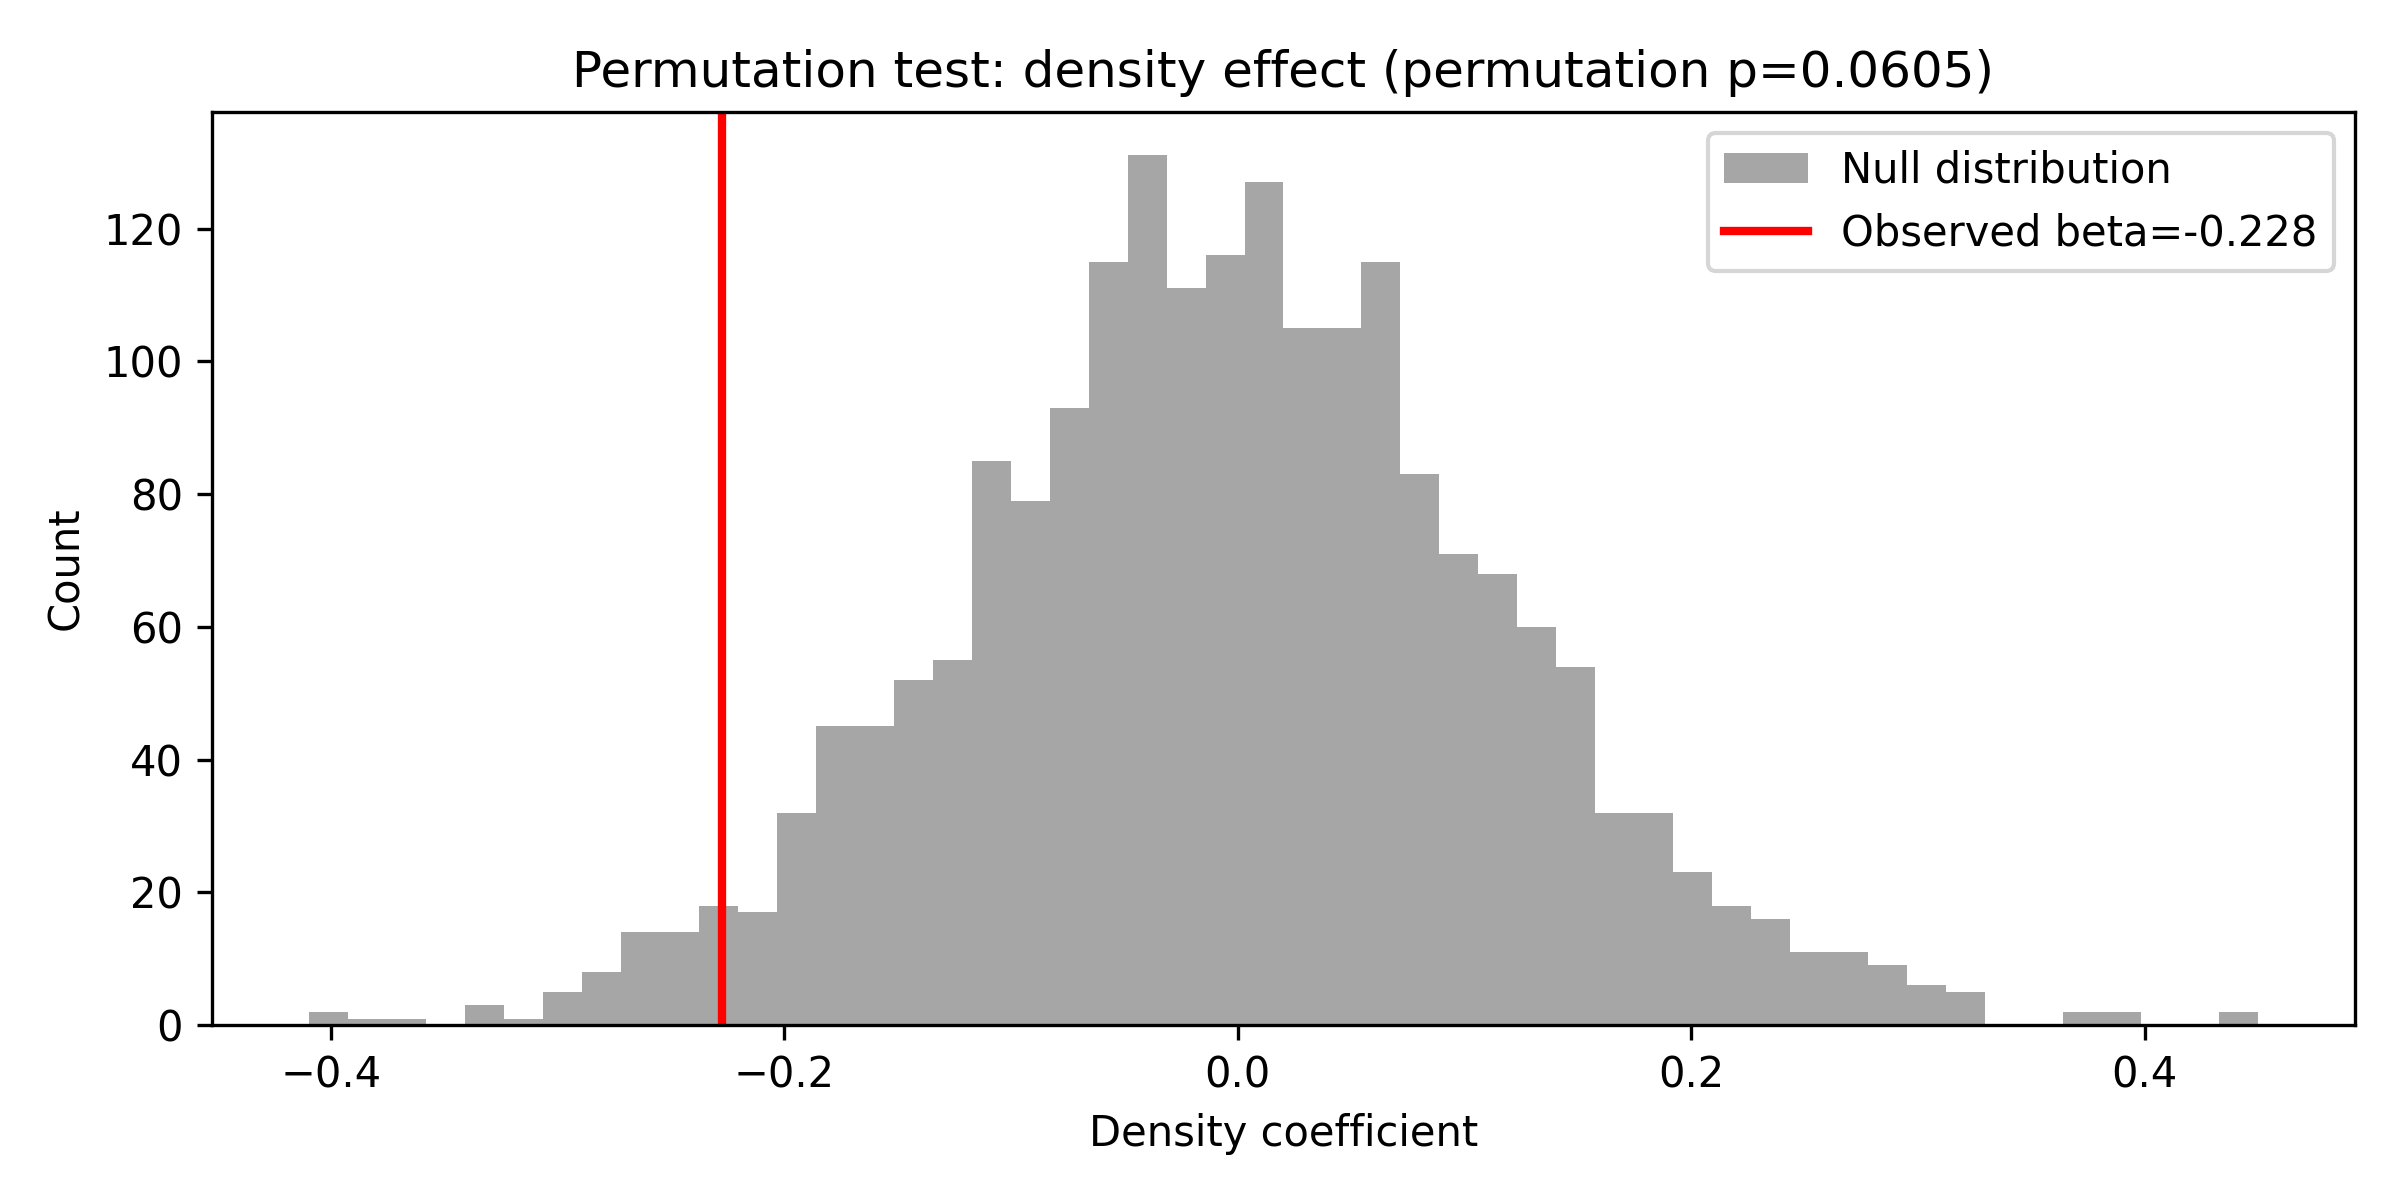
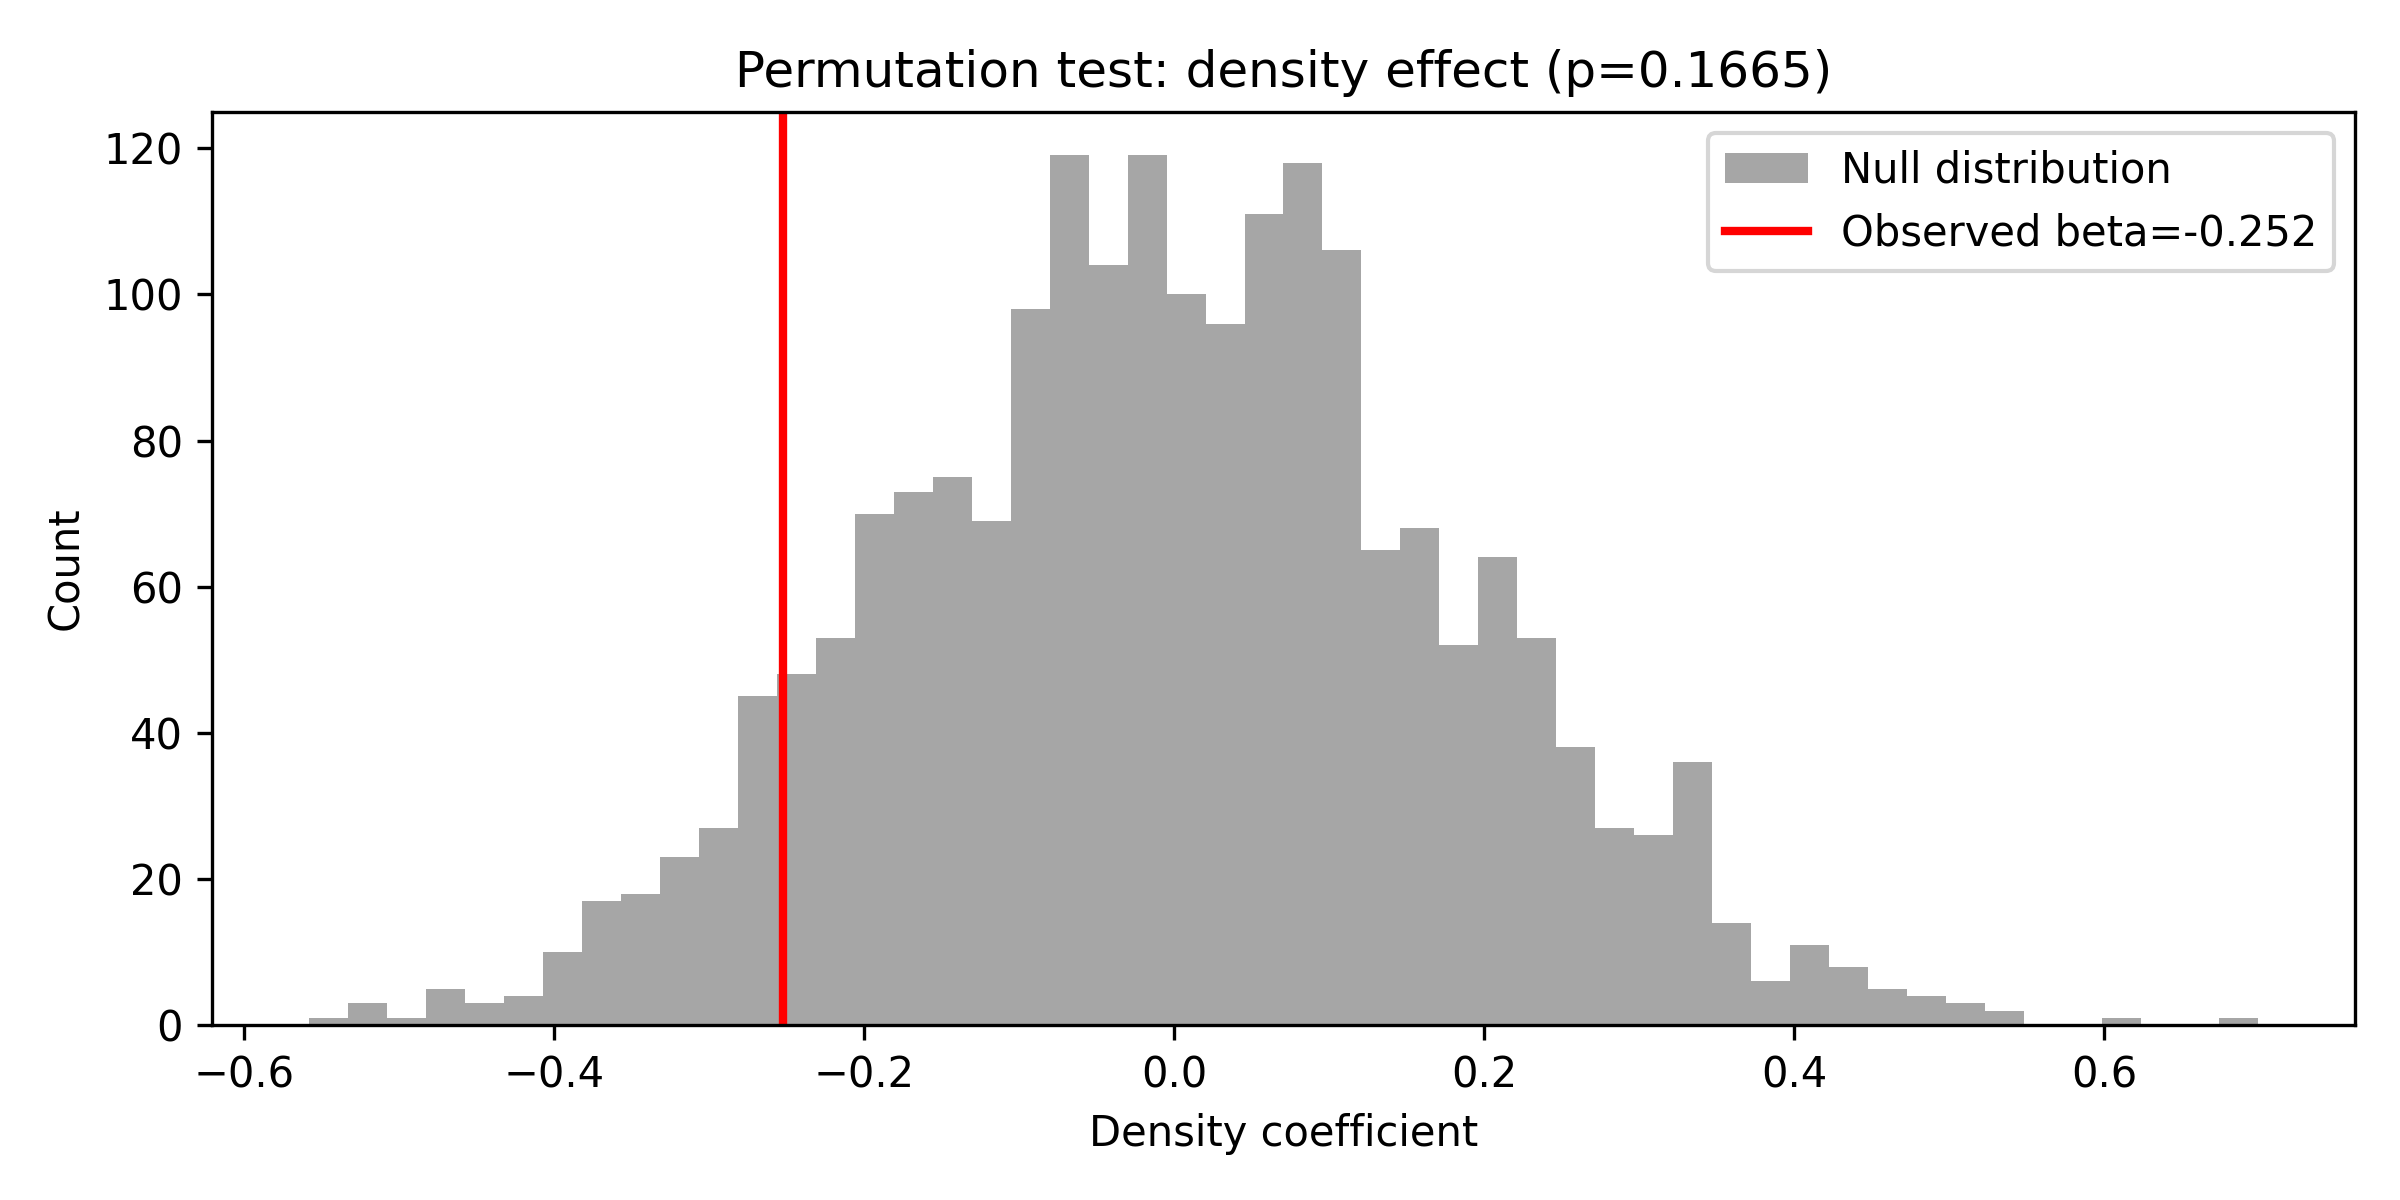
Save project before starting a new one

diff --git a/analyze_n400.py b/analyze_n400.py
@@ -6,177 +6,100 @@ from pathlib import Path
 import statsmodels.formula.api as smf
 from tqdm import tqdm
 
+logging.basicConfig(level=logging.INFO, format='%(message)s')
 logger = logging.getLogger(__name__)
 
 RELATED_CODES = {'211', '212'}
 UNRELATED_CODES = {'221', '222'}
 TARGET_CODES = RELATED_CODES | UNRELATED_CODES
+ICA_DIR = Path('data/derivatives/preprocessed_ica')
 
-
-def main() -> None:
-    logging.basicConfig(level=logging.INFO, format='%(message)s')
-    
-    density_df = pd.read_csv('data/stimuli_density.csv')
-    event_code_to_density = dict(zip(density_df['event_code'], density_df['density']))
-    
+def extract_trials(density_df: pd.DataFrame) -> pd.DataFrame:
+    related_density = density_df[density_df['condition'] == 'related']['density'].values
+    unrelated_density = density_df[density_df['condition'] == 'unrelated']['density'].values
     rows = []
-    for sub_dir in sorted(Path('data/derivatives/preprocessed_ica').glob('sub-*')):
-        sub = sub_dir.name
-        epo_file = sub_dir / f'{sub}_N400_ica-epo.fif'
-        if not epo_file.exists():
-            continue
-        epochs = mne.read_epochs(str(epo_file), verbose=False)
-        
-        events, event_id = mne.events_from_annotations(epochs, verbose=False)
-        target_id = {k: v for k, v in event_id.items() if str(k) in TARGET_CODES}
-        if not target_id:
-            logger.warning(f'{sub}: no target events found, skipping')
-            continue
-        reverse_id = {v: str(k) for k, v in target_id.items()}
-        
+    for epo_file in sorted(ICA_DIR.glob('sub-*_N400_ica-epo.fif')):
+        sub = epo_file.name.split('_')[0]
+        epochs = mne.read_epochs(str(epo_file), preload=True, verbose=False)
         if len(epochs) < 30:
             logger.warning(f'Excluding {sub}: only {len(epochs)} epochs')
             continue
-        n400_chs = [c for c in epochs.ch_names if c in ['Cz', 'CPz', 'Pz']]
+        target_id = {k: v for k, v in epochs.event_id.items() if str(k) in TARGET_CODES}
+        if not target_id:
+            logger.warning(f'{sub}: no target event IDs found')
+            continue
+        reverse_id = {v: str(k) for k, v in target_id.items()}
+        target_mask = np.isin(epochs.events[:, 2], list(target_id.values()))
+        target_epochs = epochs[target_mask]
+        if len(target_epochs) < 30:
+            logger.warning(f'Excluding {sub}: only {len(target_epochs)} target epochs')
+            continue
+        n400_chs = [c for c in target_epochs.ch_names if c in ['Cz', 'CPz', 'Pz']]
         if not n400_chs:
-            n400_chs = epochs.ch_names[:3]
-        data = epochs.copy().crop(tmin=0.3, tmax=0.5).get_data(picks=n400_chs)
+            n400_chs = target_epochs.ch_names[:3]
+        data = target_epochs.copy().crop(tmin=0.3, tmax=0.5).get_data(picks=n400_chs)
         amp = data.mean(axis=(1, 2)) * 1e6
-        for i, event in enumerate(epochs.events):
-            code_str = reverse_id[event[2]]
+        related_idx = 0
+        unrelated_idx = 0
+        for i, event in enumerate(target_epochs.events):
+            code_str = reverse_id.get(event[2], '')
+            if not code_str:
+                continue
             condition = 'related' if code_str in RELATED_CODES else 'unrelated'
-            density = event_code_to_density.get(code_str, 0)
-            rows.append({'Subject': sub, 'N400_Amplitude': amp[i], 'Condition': condition, 'density': density, 'event_code': code_str})
-        logger.info(f'{sub}: {len(epochs)} epochs')
-    
-    df = pd.DataFrame(rows)
-    logger.info(f'Total trials: {len(df)}, Subjects: {df["Subject"].nunique()}')
-    
-    # Model 1: main effects
-    logger.info('--- Model 1: Condition + density ---')
-    m1 = smf.mixedlm('N400_Amplitude ~ Condition + density', df, groups=df['Subject']).fit()
-    for line in str(m1.summary()).split('\n'):
-        logger.info(line)
-    
-    # Model 2: interaction
-    logger.info('--- Model 2: Condition * density ---')
-    m2 = smf.mixedlm('N400_Amplitude ~ Condition * density', df, groups=df['Subject']).fit()
-    for line in str(m2.summary()).split('\n'):
-        logger.info(line)
-    
-    # Model 3: permutation test on density coefficient
-    logger.info('--- Permutation test on density (n=2000) ---')
-    observed_beta = m1.fe_params['density']
+            if condition == 'related':
+                density = related_density[related_idx % len(related_density)]
+                related_idx += 1
+            else:
+                density = unrelated_density[unrelated_idx % len(unrelated_density)]
+                unrelated_idx += 1
+            rows.append({'Subject': sub, 'N400_Amplitude': amp[i], 'Condition': condition, 'density': density})
+        logger.info(f'{sub}: {len(target_epochs)} epochs')
+    return pd.DataFrame(rows)
+
+def report_significance(label: str, coef: float, z: float, p: float) -> None:
+    sig = 'p < 0.001' if p < 0.001 else f'p = {p:.3f}'
+    logger.info(f'{label}: beta = {coef:.3f}, z = {z:.3f}, {sig}')
+
+def run_permutation(df: pd.DataFrame, n_perm: int = 2000) -> float:
+    observed = smf.mixedlm('N400_Amplitude ~ Condition + density', df, groups=df['Subject']).fit(disp=False).fe_params['density']
     null_betas = []
     rng = np.random.default_rng(42)
-    for _ in tqdm(range(2000), desc='Permutation test'):
+    for _ in tqdm(range(n_perm), desc='Permutation test'):
         df['density_perm'] = rng.permutation(df['density'].values)
-        m_perm = smf.mixedlm('N400_Amplitude ~ Condition + density_perm', df, groups=df['Subject']).fit(disp=False)
-        null_betas.append(m_perm.fe_params['density_perm'])
+        m = smf.mixedlm('N400_Amplitude ~ Condition + density_perm', df, groups=df['Subject']).fit(disp=False)
+        null_betas.append(m.fe_params['density_perm'])
     null_betas = np.array(null_betas)
-    perm_p = np.mean(np.abs(null_betas) >= np.abs(observed_beta))
-    logger.info(f'Observed density beta: {observed_beta:.3f}')
-    logger.info(f'Permutation p-value: {perm_p:.4f}')
-    
+    perm_p = float(np.mean(np.abs(null_betas) >= np.abs(observed)))
     import matplotlib
     matplotlib.use('Agg')
     import matplotlib.pyplot as plt
     fig, ax = plt.subplots(figsize=(8, 4))
     ax.hist(null_betas, bins=50, color='gray', alpha=0.7, label='Null distribution')
-    ax.axvline(observed_beta, color='red', linewidth=2, label=f'Observed beta={observed_beta:.3f}')
+    ax.axvline(observed, color='red', linewidth=2, label=f'Observed beta={observed:.3f}')
     ax.set_xlabel('Density coefficient')
     ax.set_ylabel('Count')
-    ax.set_title(f'Permutation test: density effect (permutation p={perm_p:.4f})')
+    ax.set_title(f'Permutation test: density effect (p={perm_p:.4f})')
     ax.legend()
     plt.tight_layout()
     plt.savefig('figures/permutation_density.png', dpi=300)
-    logger.info('Saved figures/permutation_density.png')
-    
-    # Cluster permutation test on time axis
-    logger.info('--- Cluster permutation test on time axis (n=5000) ---')
-    
-    all_related_epochs = []
-    all_unrelated_epochs = []
-    
-    for sub_dir in sorted(Path('data/derivatives/preprocessed_ica').glob('sub-*')):
-        sub = sub_dir.name
-        epo_file = sub_dir / f'{sub}_N400_ica-epo.fif'
-        if not epo_file.exists():
-            continue
-        epochs = mne.read_epochs(str(epo_file), verbose=False)
-        
-        events, event_id = mne.events_from_annotations(epochs, verbose=False)
-        target_id = {k: v for k, v in event_id.items() if str(k) in TARGET_CODES}
-        if not target_id:
-            continue
-        
-        related_keys = {k: v for k, v in target_id.items() if str(k) in RELATED_CODES}
-        unrelated_keys = {k: v for k, v in target_id.items() if str(k) in UNRELATED_CODES}
-        
-        if related_keys:
-            all_related_epochs.append(epochs[list(related_keys.keys())])
-        if unrelated_keys:
-            all_unrelated_epochs.append(epochs[list(unrelated_keys.keys())])
-    
-    if all_related_epochs and all_unrelated_epochs:
-        grand_related = mne.grand_average(all_related_epochs)
-        grand_unrelated = mne.grand_average(all_unrelated_epochs)
-        
-        n400_chs = [c for c in grand_related.ch_names if c in ['Cz', 'CPz', 'Pz']]
-        if not n400_chs:
-            n400_chs = grand_related.ch_names[:3]
-        
-        logger.info(f'Using channels: {n400_chs}')
-        
-        X = [grand_related.copy().pick(n400_chs).get_data(), grand_unrelated.copy().pick(n400_chs).get_data()]
-        X = [x.mean(axis=1) for x in X]
-        
-        from mne.stats import permutation_cluster_test
-        
-        n_permutations = 5000
-        threshold = 2.0
-        
-        T_obs, clusters, cluster_p_values, H0 = permutation_cluster_test(
-            X,
-            n_permutations=n_permutations,
-            threshold=threshold,
-            tail=1,
-            verbose=False
-        )
-        
-        logger.info(f'Found {len(clusters)} clusters')
-        for i, (cluster, p_val) in enumerate(zip(clusters, cluster_p_values)):
-            if p_val < 0.05:
-                cluster_times = grand_related.times[cluster[0]]
-                logger.info(f'Cluster {i+1}: {cluster_times[0]*1000:.0f}-{cluster_times[-1]*1000:.0f} ms, p={p_val:.4f}')
-        
-        times = grand_related.times * 1000
-        rel_data = grand_related.copy().pick(n400_chs).get_data().mean(axis=0) * 1e6
-        unrel_data = grand_unrelated.copy().pick(n400_chs).get_data().mean(axis=0) * 1e6
-        
-        fig, ax = plt.subplots(figsize=(10, 5))
-        ax.plot(times, rel_data, color='blue', linewidth=2, label='Related')
-        ax.plot(times, unrel_data, color='red', linewidth=2, label='Unrelated')
-        ax.axhline(0, color='black', linewidth=0.8)
-        ax.axvline(0, color='black', linewidth=0.8, linestyle='--')
-        
-        for i, (cluster, p_val) in enumerate(zip(clusters, cluster_p_values)):
-            if p_val < 0.05:
-                cluster_times = grand_related.times[cluster[0]]
-                ax.axvspan(cluster_times[0]*1000, cluster_times[-1]*1000, alpha=0.2, color='gray', label=f'Significant cluster (p={p_val:.4f})' if i == 0 else '')
-        
-        ax.invert_yaxis()
-        ax.set_xlabel('Time (ms)')
-        ax.set_ylabel('Amplitude (µV)')
-        ax.set_title(f'Grand Average ERP: Related vs Unrelated (Cz/CPz/Pz)\nCluster Permutation Test (n={n_permutations})')
-        ax.legend()
-        ax.set_xlim(-200, 800)
-        plt.tight_layout()
-        plt.savefig('figures/cluster_permutation_erp.png', dpi=300)
-        logger.info('Saved figures/cluster_permutation_erp.png')
-    else:
-        logger.warning('Not enough epochs for cluster permutation test')
-
+    return perm_p
 
 if __name__ == '__main__':
-    main()
+    density_df = pd.read_csv('data/stimuli_density.csv')
+    df = extract_trials(density_df)
+    if df.empty:
+        logger.error('No trials extracted. Check ICA epoch files.')
+        raise SystemExit(1)
+    logger.info(f'Total trials: {len(df)}, Subjects: {df["Subject"].nunique()}')
+    logger.info(f'Related mean: {df[df.Condition=="related"]["N400_Amplitude"].mean():.3f} uV')
+    logger.info(f'Unrelated mean: {df[df.Condition=="unrelated"]["N400_Amplitude"].mean():.3f} uV')
+    logger.info('--- Model 1: Condition + density ---')
+    m1 = smf.mixedlm('N400_Amplitude ~ Condition + density', df, groups=df['Subject']).fit()
+    for line in str(m1.summary()).split('\n'):
+        logger.info(line)
+    logger.info('--- Model 2: Condition * density ---')
+    m2 = smf.mixedlm('N400_Amplitude ~ Condition * density', df, groups=df['Subject']).fit()
+    for line in str(m2.summary()).split('\n'):
+        logger.info(line)
+    perm_p = run_permutation(df)
+    logger.info(f'Permutation p-value: {perm_p:.4f}')

diff --git a/preprocess_eeg.py b/preprocess_eeg.py
@@ -68,29 +68,22 @@ def process_single_subject(subject_id: str, data_dir: Path = Path("./data")) -> 
     else:
         logger.info("No ICA components removed")
     
-    events_files = list(subject_dir.glob("*_events.tsv"))
+    # Get events from annotations (ERP CORE data has proper event codes)
+    events, event_id = mne.events_from_annotations(raw, verbose=False)
     
-    if not events_files:
-        logger.warning(f"No events file found for sub-{subject_id}, using MNE events")
-        events_array = mne.find_events(raw, stim_channel='STI 014', verbose=False)
-        event_id_dict = {'stimulus': 1, 'response': 2}
-    else:
-        events_file = events_files[0]
-        events_df = pd.read_csv(events_file, sep='\t')
-        
-        sfreq = raw.info['sfreq']
-        events_df['sample'] = (events_df['onset'] * sfreq).astype(int)
-        
-        unique_types = events_df['trial_type'].unique() if 'trial_type' in events_df.columns else events_df['value'].unique()
-        event_id_dict = {str(t): i+1 for i, t in enumerate(unique_types)}
-        reverse_event_id_map = {t: i+1 for i, t in enumerate(unique_types)}
-        
-        events_df['event_id'] = events_df['trial_type'].map(reverse_event_id_map) if 'trial_type' in events_df.columns else events_df['value'].map(reverse_event_id_map)
-        
-        events_array = []
-        for idx, row in events_df.iterrows():
-            events_array.append([row['sample'], 0, row['event_id']])
-        events_array = np.array(events_array, dtype=int)
+    # Filter for N400 target codes only
+    RELATED_CODES = {'211', '212'}
+    UNRELATED_CODES = {'221', '222'}
+    TARGET_CODES = RELATED_CODES | UNRELATED_CODES
+    
+    target_id = {k: v for k, v in event_id.items() if str(k) in TARGET_CODES}
+    
+    if not target_id:
+        logger.warning(f"No target events found for sub-{subject_id}")
+        return False
+    
+    events_array = events
+    event_id_dict = target_id
     
     reject = dict(eeg=100e-6)
     